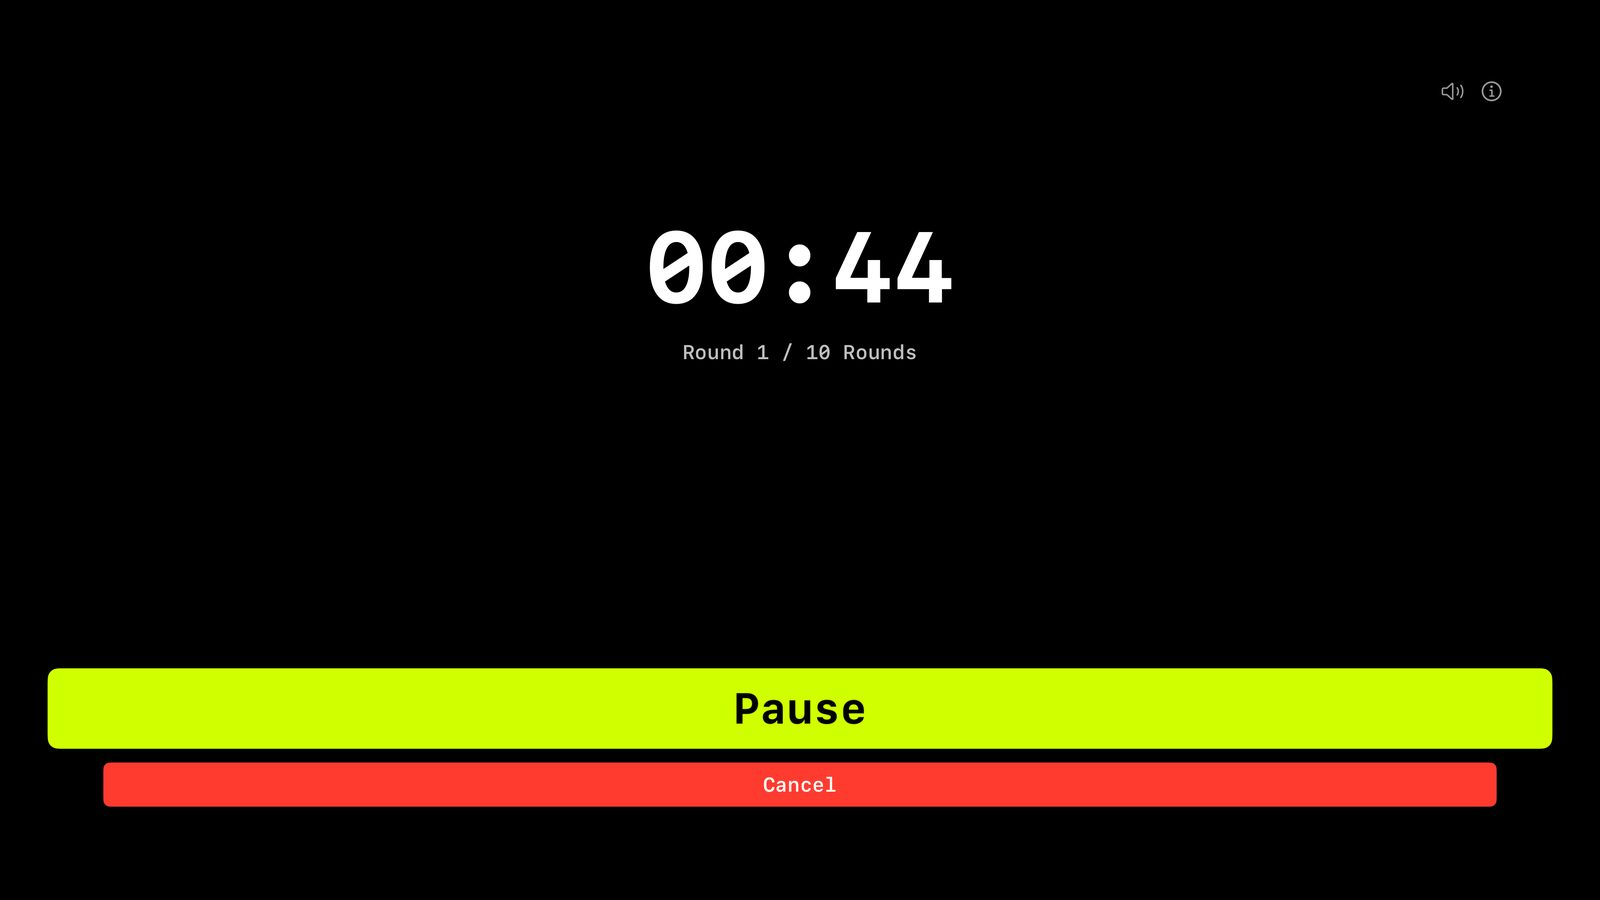
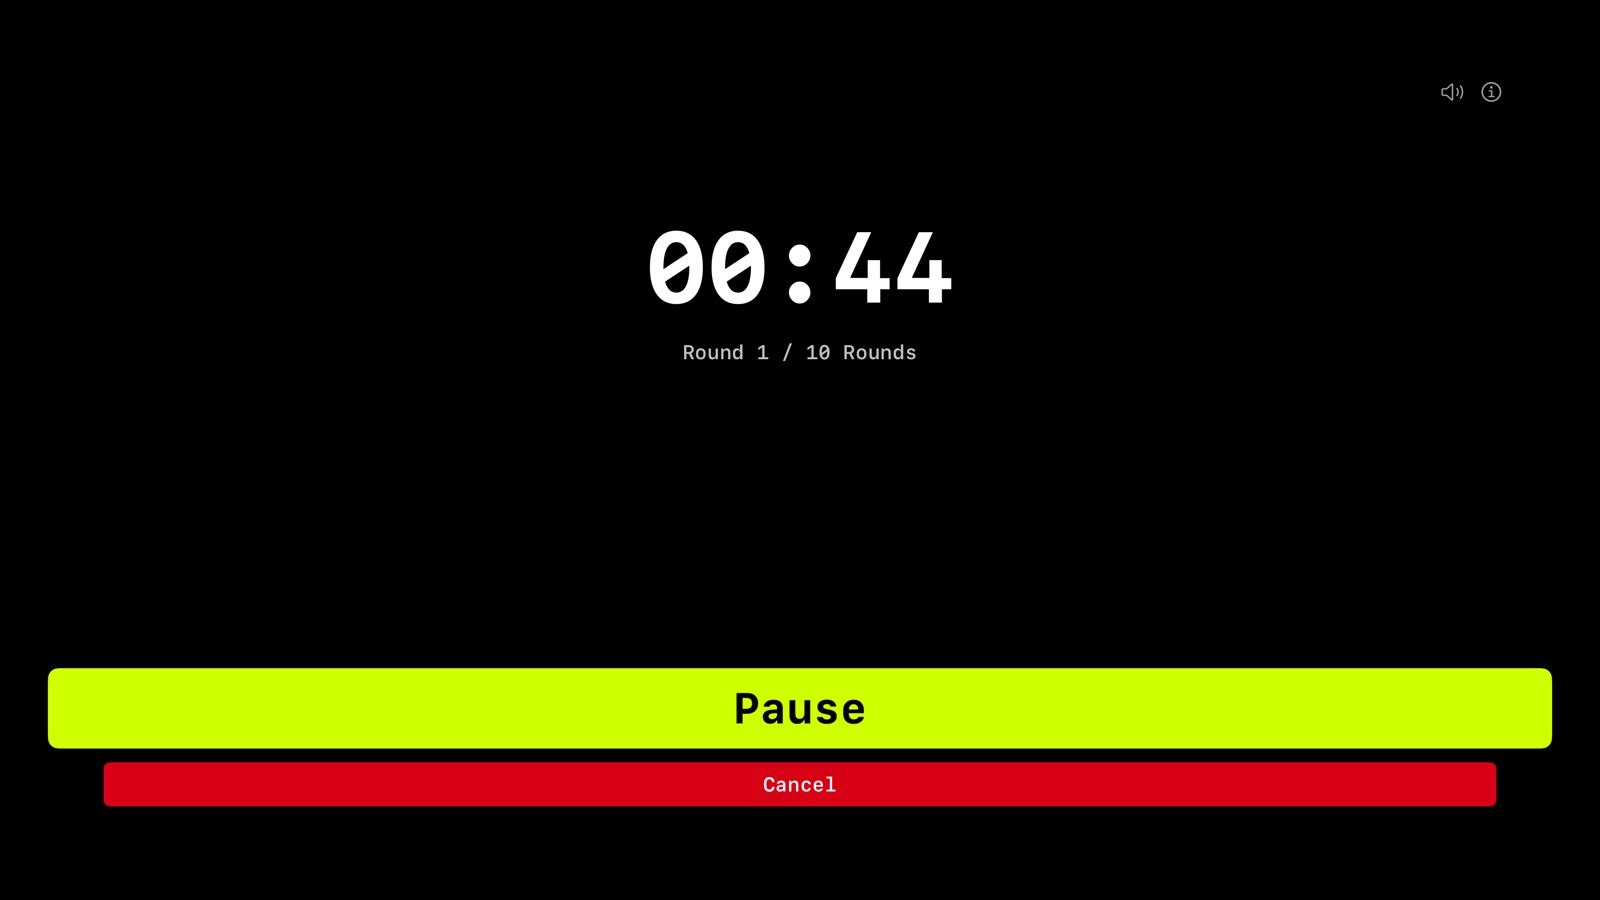
Site: an Apple TV page, the timer on the gym wall (#221) (#232)
* Site: an Apple TV page, the timer on the gym wall (#221)

docs/apple-tv-timer.html, in English, in the pages' frame: the three
timers and their ranges, the Siri Remote, what the room sees (the time,
Work or Rest and the ring, the full-screen flash), the cues and the
short 3-2-1 beep that #200 hasn't fixed, the screensaver kept away, and
what Apple TV doesn't do (no sync, no Apple Health, no haptics). Every
claim is checked against tvOSContentView.swift. The captures are the
home page's Intervals TV capture and the existing EMOM one.

Linked from the English home's "Across the room" trait and from the
Apple Watch page, and in the sitemap. The localized homes link it once
the page has their language.

* Sitemap dates for the Apple TV page and the two pages that link it (#221)

* Apple TV page: the EMOM capture from the current build, and no "white on black"

The EMOM capture dated from 2026-10-09 and showed the older, brighter
Cancel red. It is replaced with a capture of the current tvOS build
(EMOM, 44 seconds left in round 1 of 10). The page no longer says
"white on black": the colours follow the Apple TV's Light or Dark
setting, so it says "in bold digits" instead.

---------

Changed region(s): [[0.0625, 0.84, 0.9375, 0.9022], [0.9062, 0.0933, 0.9375, 0.1244]]

diff --git a/docs/apple-tv-timer.html b/docs/apple-tv-timer.html
@@ -1,0 +1,292 @@
+<!DOCTYPE html>
+<html lang="en">
+<head>
+  <meta charset="UTF-8">
+  <meta name="viewport" content="width=device-width, initial-scale=1">
+  <title>Apple TV Gym Timer for CrossFit and HIIT | WODrounds</title>
+  <meta name="description" content="Use your Apple TV as a gym timer. EMOM, intervals and For Time on the big screen, set up with the Siri Remote, no iPhone needed. Paid for once.">
+  <meta name="keywords" content="Apple TV workout timer, Apple TV gym timer, gym timer on TV, CrossFit timer for Apple TV, Apple TV EMOM timer, Apple TV interval timer, home gym timer">
+  <link rel="canonical" href="https://wodrounds.iamjarl.com/apple-tv-timer.html">
+  <meta name="robots" content="index, follow">
+  <meta property="og:type" content="website">
+  <meta property="og:url" content="https://wodrounds.iamjarl.com/apple-tv-timer.html">
+  <meta property="og:title" content="Apple TV Gym Timer for CrossFit and HIIT | WODrounds">
+  <meta property="og:description" content="EMOM, intervals and For Time on the TV in your gym, set up with the Siri Remote. No iPhone needed.">
+  <meta property="og:image" content="https://wodrounds.iamjarl.com/images/og-image.png">
+  <meta property="og:site_name" content="WODrounds">
+  <meta property="og:image:width" content="1200">
+  <meta property="og:image:height" content="630">
+  <meta name="twitter:card" content="summary_large_image">
+  <meta name="twitter:title" content="Apple TV Gym Timer for CrossFit and HIIT | WODrounds">
+  <meta name="twitter:description" content="EMOM, intervals and For Time on the TV in your gym, set up with the Siri Remote.">
+  <meta name="twitter:image" content="https://wodrounds.iamjarl.com/images/og-image.png">
+  <meta name="theme-color" content="#0B0C0D">
+  <meta name="apple-itunes-app" content="app-id=6759229877">
+  <link rel="icon" href="images/favicon-dark.png" type="image/png">
+  <link rel="apple-touch-icon" href="images/favicon-dark.png">
+<!-- frame:head -->
+<!-- The homes' design system files, v1.35.1, without the kit's marketing sections (#189). Built by scripts/build_pages.py. -->
+<link rel="stylesheet" href="/assets/iamjarl-design@v1.35.1/dist/css/tokens.css" integrity="sha384-dwNVnicsf+dtw01r5p08OIz0PAoO6RGpCdqZ4uOMnjy52ZvPD8H6/XoSie5rGYTe">
+<link rel="stylesheet" href="/assets/iamjarl-design@v1.35.1/dist/identity/wodrounds.css" integrity="sha384-86gFQt4xHRuPHt8HX82O8jA86jFf52TNc3mBtyGNTA4l5E5Ea9g5IMBNuBbpdDKQ">
+<link rel="stylesheet" href="/assets/iamjarl-design@v1.35.1/dist/fonts/jetbrains-mono.css" integrity="sha384-vLVcUAHaAI3a2hjpqWvWViI2ow/hgbPQwV7xWrGKHEoth/gOcm0v0zCcxaRHBq7m">
+<link rel="stylesheet" href="/assets/iamjarl-design@v1.35.1/dist/kit/kit.css" integrity="sha384-nUfZVPynd+qv9zKy31CNHBMAm4lfLPzO2XpNIuNW/YgL6qQNZDgLjG5aYRDoR6Qm">
+<script type="module" src="/assets/iamjarl-design@v1.35.1/dist/components/ij-nav.js" integrity="sha384-95VZFSpjnq1uGjMyR2zC3pAec8DTD+3cyJATjk5Kl4WpTj1vPnWkgZOLM3qETtSn"></script>
+<script type="module" src="/assets/iamjarl-design@v1.35.1/dist/components/ij-footer.js" integrity="sha384-i37426tUYyrzNktVPZXGI26zfSccQnLf7v7bj8+w9GMsCiimLXduUK//vx30mU/g"></script>
+<!-- /frame:head -->
+  <link rel="stylesheet" href="style.css">
+  <script type="application/ld+json">
+  {
+    "@context": "https://schema.org",
+    "@type": "BreadcrumbList",
+    "itemListElement": [
+      { "@type": "ListItem", "position": 1, "name": "WODrounds", "item": "https://wodrounds.iamjarl.com/" },
+      { "@type": "ListItem", "position": 2, "name": "Apple TV Timer" }
+    ]
+  }
+  </script>
+  <script type="application/ld+json">
+  {
+    "@context": "https://schema.org",
+    "@type": "Article",
+    "headline": "Apple TV Gym Timer",
+    "description": "Use WODrounds on Apple TV as the timer on the wall of a home gym, garage or box.",
+    "author": {
+      "@type": "Person",
+      "name": "Jarl",
+      "url": "https://iamjarl.com"
+    },
+    "publisher": {
+      "@type": "Organization",
+      "name": "IAMJARL",
+      "url": "https://iamjarl.com"
+    },
+    "datePublished": "2026-11-21",
+    "dateModified": "2026-11-21"
+  }
+  </script>
+  <script type="application/ld+json">
+  {
+    "@context": "https://schema.org",
+    "@type": "FAQPage",
+    "mainEntity": [
+      {
+        "@type": "Question",
+        "name": "Do I need an iPhone to use WODrounds on Apple TV?",
+        "acceptedAnswer": {
+          "@type": "Answer",
+          "text": "No. The Apple TV app sets up and runs EMOM, intervals and For Time by itself, with the Siri Remote. One purchase covers it, along with iPhone, iPad, Apple Watch and Mac."
+        }
+      },
+      {
+        "@type": "Question",
+        "name": "Can I start a workout on my iPhone and show it on the TV?",
+        "acceptedAnswer": {
+          "@type": "Answer",
+          "text": "No. A workout started on the iPhone shows live on the Apple Watch, not on the TV. On the TV, you start it with the Siri Remote."
+        }
+      },
+      {
+        "@type": "Question",
+        "name": "Will I hear the cues over music?",
+        "acceptedAnswer": {
+          "@type": "Answer",
+          "text": "The spoken cues play through the TV and whatever speakers it uses, in English. The 3-2-1 before each change is a short beep, and with loud music it can be easy to miss. Every change also flashes the whole screen."
+        }
+      }
+    ]
+  }
+  </script>
+
+  <script defer src="https://umami-iamjarl.vercel.app/script.js" data-website-id="7a65d61a-b231-4611-b514-3c6cd0a5b7b3" data-do-not-track="true" data-domains="wodrounds.iamjarl.com"></script>
+</head>
+<body class="ij-page">
+<!-- frame:nav -->
+<a class="ij-skip" href="#main">Skip to content</a>
+<ij-nav>
+  <a slot="brand" href="index.html">WODrounds</a>
+  <a slot="links" href="index.html#timers">Timers</a>
+  <a slot="links" href="index.html#where">Where it works</a>
+  <a slot="links" href="index.html#faq">FAQ</a>
+  <a slot="cta" href="https://apps.apple.com/app/id6759229877?pt=128512007&amp;ct=site&amp;mt=8" data-umami-event="store-click" data-umami-event-store="app-store" data-umami-event-placement="nav" data-umami-event-locale="en">Download</a>
+</ij-nav>
+<!-- /frame:nav -->
+
+  <main id="main">
+    <section class="hero">
+      <div class="wrap">
+        <p class="hero-label">The clock on the wall</p>
+        <h1 class="hero-title">Apple TV<br>Gym Timer</h1>
+        <p class="hero-lead">Put WODrounds on the TV in your garage, home gym or box, and keep the phone out of the workout. EMOM, intervals and For Time run on the Apple TV itself, set up with the Siri Remote, with the time big enough to read from the rower. No account, no subscription.</p>
+        <div class="hero-cta">
+          <!-- store:hero -->
+          <div class="ij-store" data-ij-store="wodrounds" data-ij-store-locale="en">
+            <a class="ij-store-badge" href="https://apps.apple.com/app/id6759229877?pt=128512007&amp;ct=site&amp;mt=8" data-umami-event="store-click" data-umami-event-store="app-store" data-umami-event-placement="hero" data-umami-event-locale="en">
+              <img src="/assets/iamjarl-design@v1.35.1/badges/app-store-white-en-us.svg" alt="Download on the App Store" width="120" height="40">
+            </a>
+            <p class="ij-store-facts">$2.99 once · iOS 17 or later</p>
+          </div>
+          <!-- /store -->
+          <p class="cta-note">One purchase covers Apple TV. Requires tvOS 17 or later.</p>
+        </div>
+      </div>
+    </section>
+
+    <section class="app-showcase">
+      <div class="wrap">
+        <h2 class="section-title">What the room sees</h2>
+        <p class="section-lead">During a workout the time is the biggest thing on the screen, in bold digits, with the round under it. Intervals adds Work or Rest above the time and a ring that drains over each phase. At every new round, and at every switch between work and rest, the whole screen flashes, so you catch the change even with your back to the TV.</p>
+        <div class="app-shots">
+          <figure class="app-shot" style="width: min(560px, 100%)">
+            <div class="ij-tv" style="--ij-tv-width: 560px"><div class="ij-tv__screen"><img src="assets/site/tv-intervals-en.jpg" alt="WODrounds on Apple TV: Intervals, work, 12 seconds left inside a lime ring, round 3 of 8, 2:42 left in the workout" width="1920" height="1080" fetchpriority="high"></div></div>
+            <figcaption>Intervals: 12 seconds of work left in round 3 of 8</figcaption>
+          </figure>
+          <figure class="app-shot" style="width: min(560px, 100%)">
+            <div class="ij-tv" style="--ij-tv-width: 560px"><div class="ij-tv__screen"><img src="images/appletv-running.jpg" alt="WODrounds on Apple TV: EMOM, 44 seconds left in round 1 of 10, with Pause and Cancel" width="1600" height="900" loading="lazy"></div></div>
+            <figcaption>EMOM: 44 seconds left in round 1 of 10</figcaption>
+          </figure>
+        </div>
+      </div>
+    </section>
+
+    <section class="features">
+      <div class="wrap">
+        <h2 class="section-title">How it works</h2>
+        <ul class="feature-grid">
+          <li class="feature">
+            <span class="feature-icon" aria-hidden="true">Timers</span>
+            <h3>The same three timers</h3>
+            <p>EMOM with 1 to 120 rounds of 0:30 to 9:30. Intervals with 5 to 300 seconds of work, up to 180 seconds of rest and up to 60 rounds, so a Tabata is 20, 10 and 8. For Time counts up from zero, with an optional cap of up to 60 minutes.</p>
+          </li>
+          <li class="feature">
+            <span class="feature-icon" aria-hidden="true">Remote</span>
+            <h3>Set up with the Siri Remote</h3>
+            <p>Pick the mode, step the numbers up or down and press Start. A 10-second Get ready gives you time to put the remote down and get to the bar. Pause and Cancel are one click away, and Cancel asks before it throws the workout away. In For Time, Stop freezes your time.</p>
+          </li>
+          <li class="feature">
+            <span class="feature-icon" aria-hidden="true">Sound</span>
+            <h3>Cues through the TV</h3>
+            <p>A voice in English calls halfway and 10 seconds left in longer rounds, and 10, 5 and 2 rounds to go, and a beep counts 3-2-1 before every change. The beep is short and can get lost under loud music. The speaker button in the corner mutes it all.</p>
+          </li>
+          <li class="feature">
+            <span class="feature-icon" aria-hidden="true">Screen</span>
+            <h3>Stays on the wall</h3>
+            <p>The Apple TV screensaver stays away while the count-in or a workout is on the screen, and comes back once you are done. The app opens with the mode and the numbers you used last time.</p>
+          </li>
+        </ul>
+      </div>
+    </section>
+
+    <section class="principles">
+      <div class="wrap">
+        <h2 class="section-title">What it doesn't do</h2>
+        <p class="principles-lead">The Apple TV runs WODrounds on its own. It doesn't sync with the iPhone or the Apple Watch, so a workout you start on the TV stays on the TV. It doesn't save to Apple Health, which only the iPhone and iPad do, and there are no haptics without a wrist to tap. The screens are in English, Danish and Spanish.</p>
+      </div>
+    </section>
+
+    <section class="features">
+      <div class="wrap">
+        <h2 class="section-title">Questions</h2>
+        <ul class="feature-grid">
+          <li class="feature">
+            <h3>Do I need an iPhone to use it on Apple TV?</h3>
+            <p>No. The Apple TV app sets up and runs EMOM, intervals and For Time by itself, with the Siri Remote. One purchase covers it, along with iPhone, iPad, Apple Watch and Mac.</p>
+          </li>
+          <li class="feature">
+            <h3>Can I start a workout on my iPhone and show it on the TV?</h3>
+            <p>No. A workout started on the iPhone shows live on the Apple Watch, not on the TV. On the TV, you start it with the Siri Remote.</p>
+          </li>
+          <li class="feature">
+            <h3>Will I hear the cues over music?</h3>
+            <p>The spoken cues play through the TV and whatever speakers it uses, in English. The 3-2-1 before each change is a short beep, and with loud music it can be easy to miss. Every change also flashes the whole screen.</p>
+          </li>
+        </ul>
+      </div>
+    </section>
+
+    <section class="cta">
+      <div class="wrap">
+        <h2 class="section-title">Get WODrounds for the gym TV</h2>
+        <p class="cta-lead">Paid for once. The same purchase covers iPhone, iPad, Apple Watch, Mac and Apple TV.</p>
+        <!-- store:midpage -->
+        <div class="ij-store" data-ij-store="wodrounds" data-ij-store-locale="en">
+          <a class="ij-store-badge" href="https://apps.apple.com/app/id6759229877?pt=128512007&amp;ct=site&amp;mt=8" data-umami-event="store-click" data-umami-event-store="app-store" data-umami-event-placement="midpage" data-umami-event-locale="en">
+            <img src="/assets/iamjarl-design@v1.35.1/badges/app-store-white-en-us.svg" alt="Download on the App Store" width="120" height="40">
+          </a>
+          <p class="ij-store-facts">$2.99 once · iOS 17 or later</p>
+        </div>
+        <!-- /store -->
+        <p class="cta-note">Requires tvOS 17 or later</p>
+      </div>
+    </section>
+
+    <section class="features">
+      <div class="wrap">
+        <h2 class="section-title">Related</h2>
+        <ul class="feature-grid">
+          <li class="feature">
+            <a href="apple-watch-timer.html" style="text-decoration:none;color:inherit">
+              <span class="feature-icon" aria-hidden="true">Watch</span>
+              <h3>Apple Watch Timer &rarr;</h3>
+              <p>Follow a workout from the iPhone on your wrist, or run EMOM and Intervals on the Watch alone.</p>
+            </a>
+          </li>
+          <li class="feature">
+            <a href="emom-timer.html" style="text-decoration:none;color:inherit">
+              <span class="feature-icon" aria-hidden="true">EMOM</span>
+              <h3>EMOM Timer &rarr;</h3>
+              <p>Every Minute on the Minute. Set rounds and round length for CrossFit-style pacing.</p>
+            </a>
+          </li>
+          <li class="feature">
+            <a href="interval-timer.html" style="text-decoration:none;color:inherit">
+              <span class="feature-icon" aria-hidden="true">Work / Rest</span>
+              <h3>Interval Timer &rarr;</h3>
+              <p>Custom work and rest periods with any number of rounds. For HIIT, circuits and conditioning.</p>
+            </a>
+          </li>
+          <li class="feature">
+            <a href="tabata-timer.html" style="text-decoration:none;color:inherit">
+              <span class="feature-icon" aria-hidden="true">20 / 10</span>
+              <h3>Tabata Timer &rarr;</h3>
+              <p>20 seconds of work, 10 of rest, 8 rounds. Set it up as intervals.</p>
+            </a>
+          </li>
+          <li class="feature">
+            <a href="for-time-timer.html" style="text-decoration:none;color:inherit">
+              <span class="feature-icon" aria-hidden="true">For Time</span>
+              <h3>For Time Timer &rarr;</h3>
+              <p>Count up from zero and race the clock, with an optional time cap. For classic For Time WODs.</p>
+            </a>
+          </li>
+        </ul>
+      </div>
+    </section>
+  </main>
+
+<!-- frame:footer -->
+<ij-footer app="wodrounds" links-label="WODrounds">
+<a slot="links" href="guide.html">Timer guide</a>
+<a slot="links" href="about.html">About</a>
+<a slot="links" href="privacy.html">Privacy Policy</a>
+<a slot="links" href="support.html">Support</a>
+<a slot="links" href="da/index.html" hreflang="da" lang="da">Dansk</a>
+<a slot="links" href="de/index.html" hreflang="de" lang="de">Deutsch</a>
+<a slot="links" href="es/index.html" hreflang="es" lang="es">Español</a>
+<a slot="links" href="fr/index.html" hreflang="fr" lang="fr">Français</a>
+<a slot="links" href="no/index.html" hreflang="nb" lang="nb">Norsk</a>
+<a slot="links" href="sv/index.html" hreflang="sv" lang="sv">Svenska</a>
+<!-- IAMJARL cross-links for WODrounds: generated, do not edit -->
+<!-- design system v1.35.1, registry updated 2026-10-13 -->
+<!-- Paste inside <ij-footer app="wodrounds">. Rebuild to refresh. -->
+<a slot="cross-links" href="https://anvilworkout.iamjarl.com">Anvil Workout</a>
+<a slot="cross-links" href="https://walkful.iamjarl.com">Walkful</a>
+<a slot="cross-links" href="https://weannicotine.iamjarl.com">Wean Nicotine</a>
+<a slot="cross-links" href="https://madebyhuman.iamjarl.com">Made by Human</a>
+<a slot="cross-links" href="https://iamjarl.com">All projects</a>
+<p slot="fineprint">© 2026 IAMJARL.</p>
+<!-- No slot attribute on purpose: the fallback, shown only if the component never loads. -->
+<p><a href="guide.html">Timer guide</a> &middot; <a href="about.html">About</a> &middot; <a href="privacy.html">Privacy Policy</a> &middot; <a href="support.html">Support</a> &middot; © 2026 IAMJARL.</p>
+</ij-footer>
+<!-- /frame:footer -->
+</body>
+</html>

diff --git a/docs/index.html b/docs/index.html
@@ -282,7 +282,7 @@
         </div>
         <div class="ij-trait ij-trait--wide">
           <div class="ij-tv" style="--ij-tv-width: 420px"><div class="ij-tv__screen"><img src="/assets/site/tv-intervals-en.jpg" alt="WODrounds on Apple TV: a Tabata in round 3 of 8, 12 seconds of work left." width="1920" height="1080" loading="lazy" decoding="async"></div></div>
-          <h3 class="ij-title">Across the room</h3><p>On Apple TV the timer fills the screen, so a home gym can read it from the rower.</p>
+          <h3 class="ij-title">Across the room</h3><p>On Apple TV the timer fills the screen, so a home gym can read it from the rower. <a href="apple-tv-timer.html">Apple TV timer</a></p>
         </div>
       </div>
     </div>

diff --git a/docs/apple-watch-timer.html b/docs/apple-watch-timer.html
@@ -222,6 +222,13 @@
         <h2 class="section-title">Related</h2>
         <ul class="feature-grid">
           <li class="feature">
+            <a href="apple-tv-timer.html" style="text-decoration:none;color:inherit">
+              <span class="feature-icon" aria-hidden="true">TV</span>
+              <h3>Apple TV Timer &rarr;</h3>
+              <p>The same three timers on the TV in your gym, set up with the Siri Remote.</p>
+            </a>
+          </li>
+          <li class="feature">
             <a href="emom-timer.html" style="text-decoration:none;color:inherit">
               <span class="feature-icon" aria-hidden="true">EMOM</span>
               <h3>EMOM Timer &rarr;</h3>

diff --git a/docs/style.css b/docs/style.css
@@ -356,6 +356,13 @@ html:not([lang="en"]) a[hreflang="en"]:not([lang])::after {
   box-shadow: 0 24px 48px rgba(0, 0, 0, 0.4);
 }
 
+/* A capture inside the kit's TV frame (apple-tv-timer.html) fills the frame's screen. */
+.app-shot .ij-tv__screen img {
+  max-width: none;
+  border-radius: 0;
+  box-shadow: none;
+}
+
 .app-shot--watch img {
   max-width: 300px;
   border-radius: 16px;

diff --git a/scripts/build_home.py b/scripts/build_home.py
@@ -202,9 +202,12 @@ def build(lang: str, folder: str, og_locale: str) -> str:
     order = ["sound", "mac-ipad", "watch", "tv"]
     for t in sorted(w["traits"], key=lambda t: order.index(t["id"])):
         if t["id"] == "tv":
+            # The Apple TV page is English only for now (#221), so only a copy file
+            # that names it links there.
+            tv_link = f' <a href="{t["link"]}">{e(t["linkText"])}</a>' if t.get("link") else ""
             traits.append(f'''<div class="ij-trait ij-trait--wide">
   <div class="ij-tv" style="--ij-tv-width: 420px"><div class="ij-tv__screen"><img src="{a}/tv-intervals-{app}.jpg" alt="{e(t["alt"])}" width="1920" height="1080" loading="lazy" decoding="async"></div></div>
-  <h3 class="ij-title">{e(t["title"])}</h3><p>{e(t["body"])}</p>
+  <h3 class="ij-title">{e(t["title"])}</h3><p>{e(t["body"])}{tv_link}</p>
 </div>''')
         elif t["id"] == "watch":
             traits.append(f'''<div class="ij-trait">
